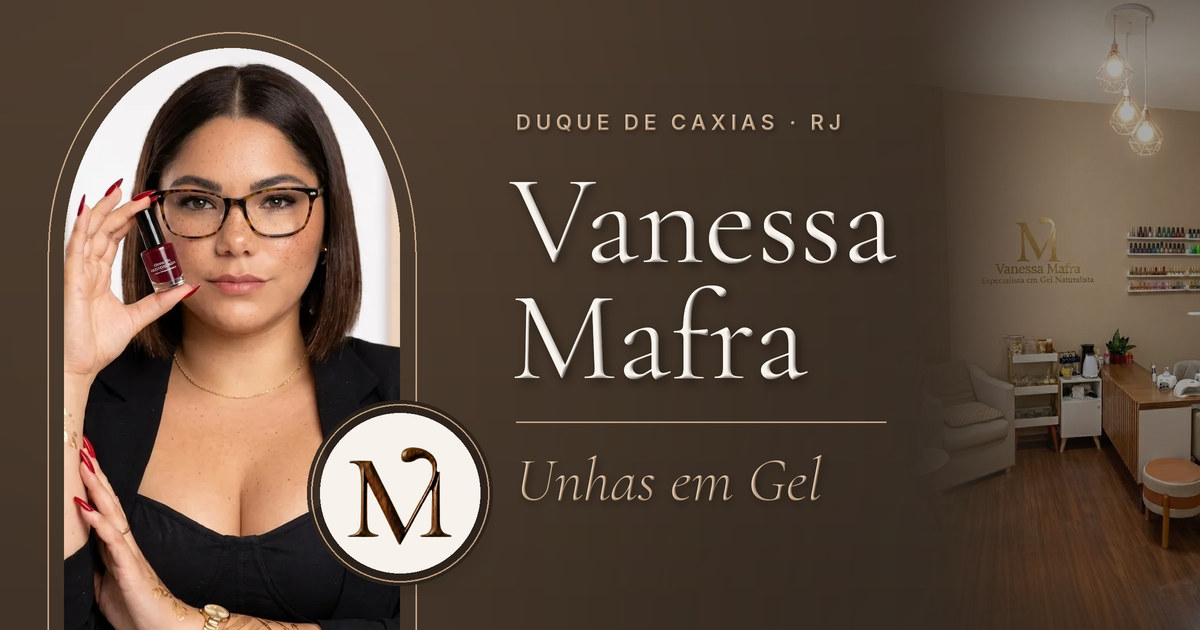
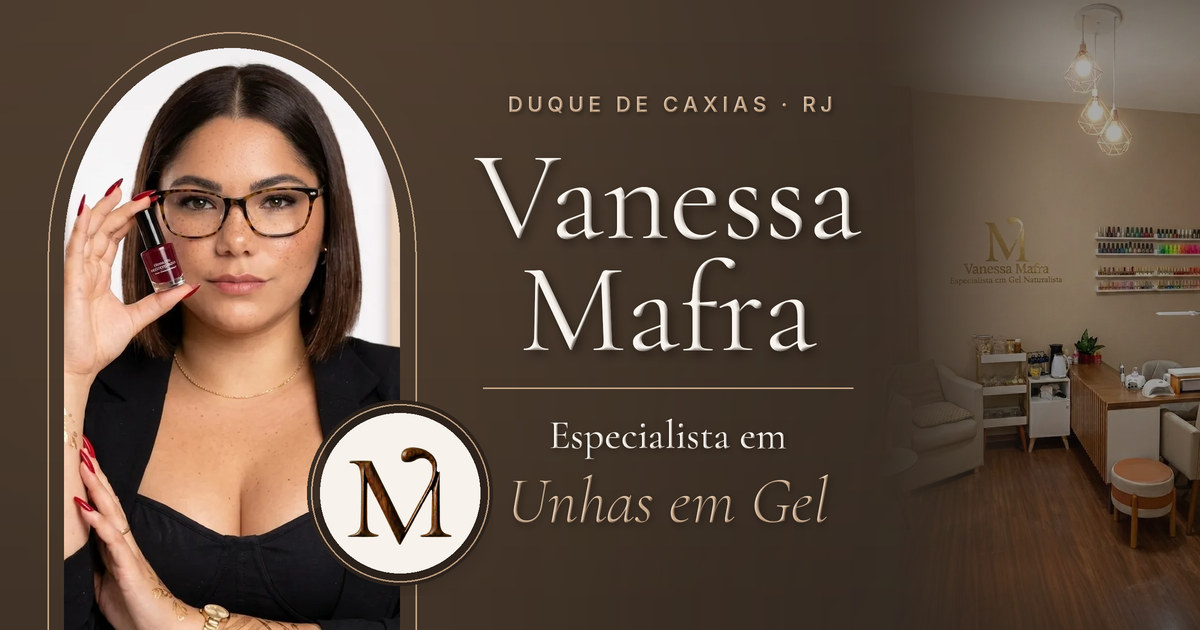
feat(og): textos centralizados e linha "Especialista em" na imagem de prévia
Nome, localização, filete, "Especialista em" e "Unhas em Gel" passam a
seguir um mesmo eixo central na coluna escura, com escala tipográfica em
degraus (localização < Especialista em < Unhas em Gel < nome). O degradê
da foto do espaço continua começando logo depois de "Vanessa".

O arquivo mantém o nome OG_image_final.jpg; as referências ganham ?v=2
para que WhatsApp, redes e CDN busquem a versão nova em vez da que já
está em cache.

Claude-Session: https://claude.ai/code/session_01F8o1xqJ3dDwFYFJHp9Sme5

diff --git a/index.html b/index.html
@@ -74,7 +74,7 @@
     />
     <meta
       property="og:image"
-      content="https://vmafraunhas.com.br/fotos/OG_image_final.jpg"
+      content="https://vmafraunhas.com.br/fotos/OG_image_final.jpg?v=2"
     />
     <meta property="og:image:type" content="image/jpeg" />
     <meta property="og:image:width" content="1200" />
@@ -98,7 +98,7 @@
     />
     <meta
       name="twitter:image"
-      content="https://vmafraunhas.com.br/fotos/OG_image_final.jpg"
+      content="https://vmafraunhas.com.br/fotos/OG_image_final.jpg?v=2"
     />
 
     <!-- Favicons -->
@@ -124,7 +124,7 @@
         "@context": "https://schema.org",
         "@type": "BeautySalon",
         "name": "Vanessa Mafra Alongamento de Unhas em Gel",
-        "image": "https://vmafraunhas.com.br/fotos/OG_image_final.jpg",
+        "image": "https://vmafraunhas.com.br/fotos/OG_image_final.jpg?v=2",
         "@id": "https://vmafraunhas.com.br",
         "url": "https://vmafraunhas.com.br",
         "telephone": "+5521999277505",
